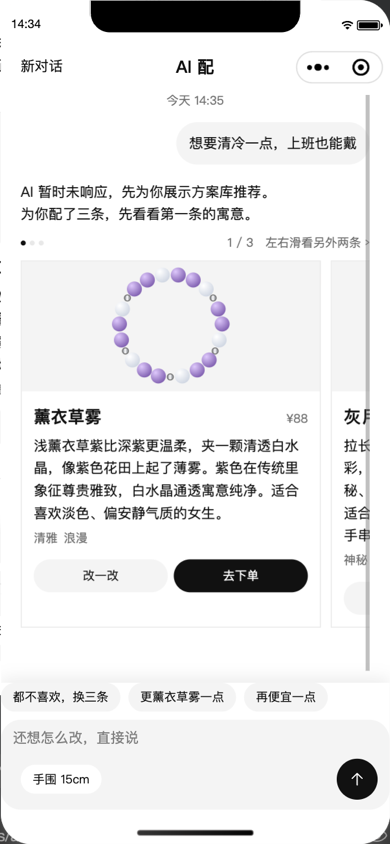
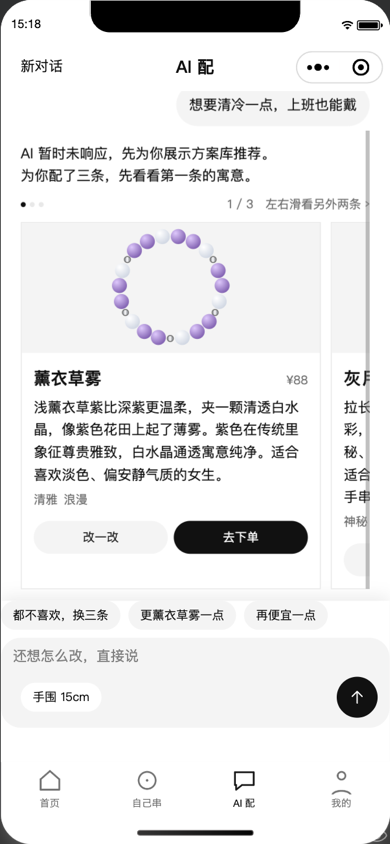
U1: 审核 1 重拍已加载的订单我的和 AI 页面

diff --git a/docs/reports/U1.md b/docs/reports/U1.md
@@ -18,7 +18,7 @@
 | 珠子直径按容器尺寸和颗数缩放，整串永远在容器内、不溢出（容器 `overflow: hidden`） | 几何测试通过；工作台及 AI 卡片改后图可见 | `bracelet-layout.test.js::80px 容器中的 19 颗珠子直径和整圈都不溢出`、`::80px 容器中的 40 颗珠子直径和整圈都不溢出`；[工作台改前](shots/U1/before/workbench.png) / [改后](shots/U1/after/workbench.png)，[AI 改前](shots/U1/before/ai-match.png) / [改后](shots/U1/after/ai-match.png) |
 | 隔片、金属件按自身 `mm` 画小、用金属色（照分享海报的画法） | 通过 | `bracelet-layout.test.js::隔珠按自身毫米数缩小并使用目录里的金属色`；[详情改前](shots/U1/before/bracelet-detail.png) / [改后](shots/U1/after/bracelet-detail.png) |
 | 水印放到图片右下角或去掉，不压珠子 | 通过，已去掉 | [详情改前](shots/U1/before/bracelet-detail.png) / [改后](shots/U1/after/bracelet-detail.png) |
-| 确认订单及“我的”页最近订单缩略图 | 组件已共用；页面视觉未完成验收 | [订单改前](shots/U1/before/order-confirm.png) / [改后](shots/U1/after/order-confirm.png)，[我的改前](shots/U1/before/mine.png) / [改后](shots/U1/after/mine.png)；限制见第 6 节 |
+| 确认订单及“我的”页最近订单缩略图 | 审核后重截，已看到完整手串 | [订单改前](shots/U1/before/order-confirm.png) / [改后](shots/U1/after/order-confirm.png)：材料 3 种、礼盒 +¥10；[我的改前](shots/U1/before/mine.png) / [改后](shots/U1/after/mine.png)：已登录、有最近订单及缩略图 |
 | `python3 tools/check-ui.py` | 通过 | `UI check: 74 violations, 0 new` |
 
 ## 3. 改了的文件
@@ -94,6 +94,11 @@ git diff --check origin/integration/2026-11...HEAD
 
 ## 6. 没做 / 没验证 / 偏离卡片
 
-- T1 脚本确已分别生成五页的改前和改后截图。订单确认页改后截图拍摄时材料请求尚未完成，显示空缩略图和“材料 0 种”；这张图不能证明订单页缩略图效果。尝试延长等待重拍时，开发者工具自动化连接卡在读取 AppID 权限，未能取得有效复拍图。需要负责人在开发者工具看 `/pages/order/order`，待材料加载完成后确认缩略图。
-- T1 脚本进入“我的”页时会显示未登录状态，没有最近订单；该处缩略图未完成视觉验证。需要负责人在开发者工具登录后看 `/pages/mine/mine` 的最近订单。
+- 审核后发现 T1 截图脚本已写入开发版令牌，但“我的”页还要求本地的手机号绑定标记；订单页原脚本也仅固定等待 900ms。为遵守 U1 的“只能改”范围，重拍时使用 `/tmp` 下的临时脚本副本：写入测试手机号掩码，等待订单的 `catalogReady`、`items` 和“我的”的 `loggedIn`、`recentBeads` 条件成立后再截图。原版 `tools/shoot/shoot.js` 没有提交改动，后续使用它重拍这两页仍需补相同等待逻辑。
+- 订单确认、我的、AI 配三张改后图已重拍；订单材料和缩略图、我的最近订单缩略图、AI 方案珠子均可见。未在真机验收。
 - 页面布局文件没有改动；本卡只改共用手串组件、对应测试及交付文件。
+
+## 7. 审核意见处理
+
+- U1-1：重拍 `order-confirm`、`mine`、`ai-match`。订单截图不再出现“材料 0 种”和 `¥NaN`，我的截图处于已登录状态；材料加载后缩略图正常，无需修改 U1 组件。
+- 复跑：`python3 tools/check-ui.py` 输出 `UI check: 74 violations, 0 new`；后端 `Ran 607 tests`、`OK (skipped=7)`；小程序 `279/279` 通过；知识库 `200/200`、问题 0 条。
